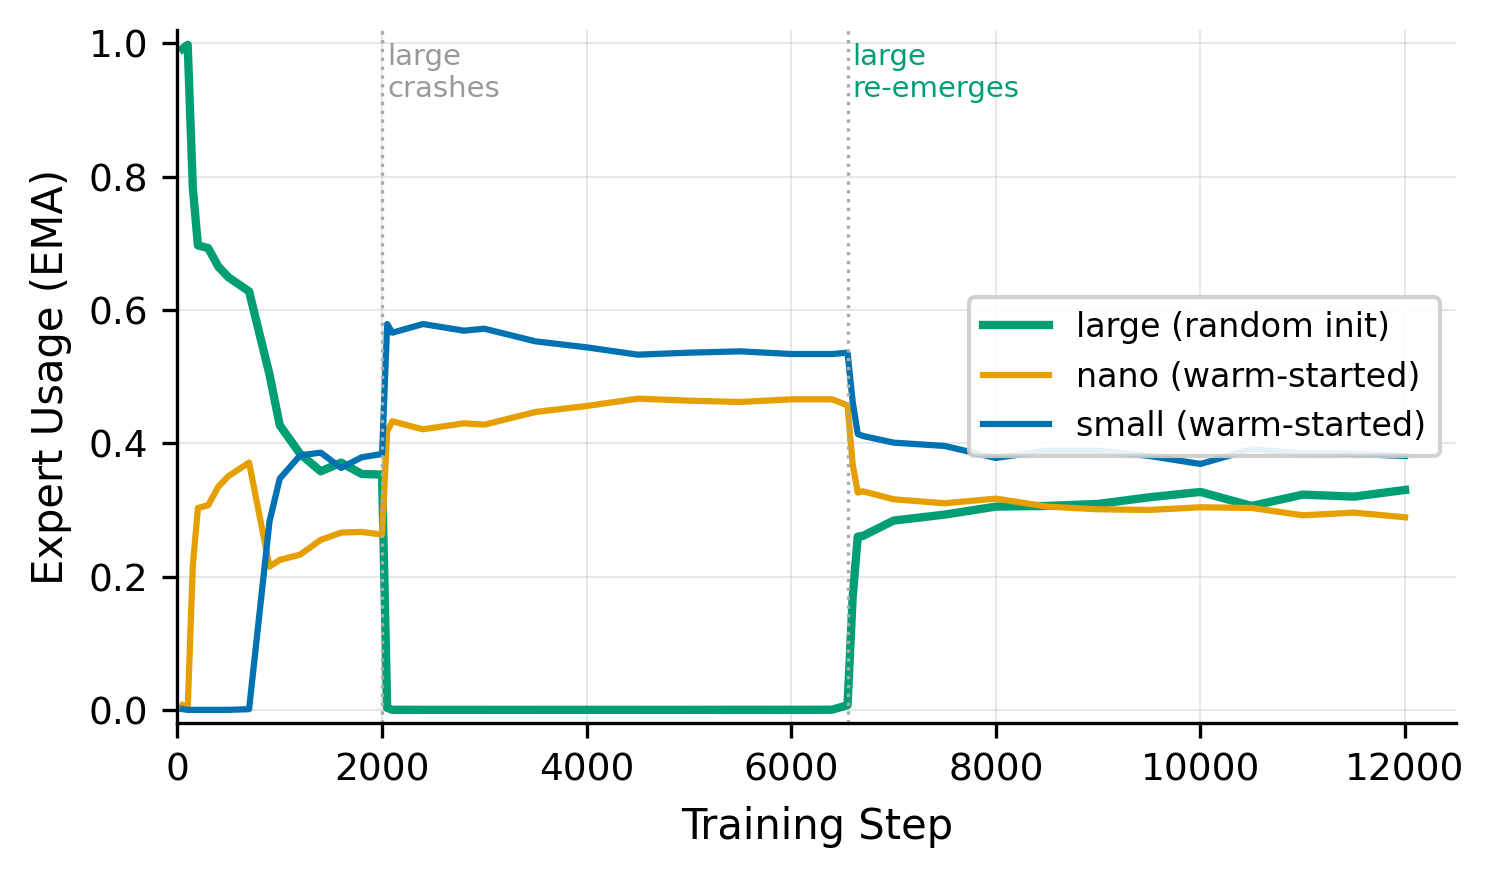
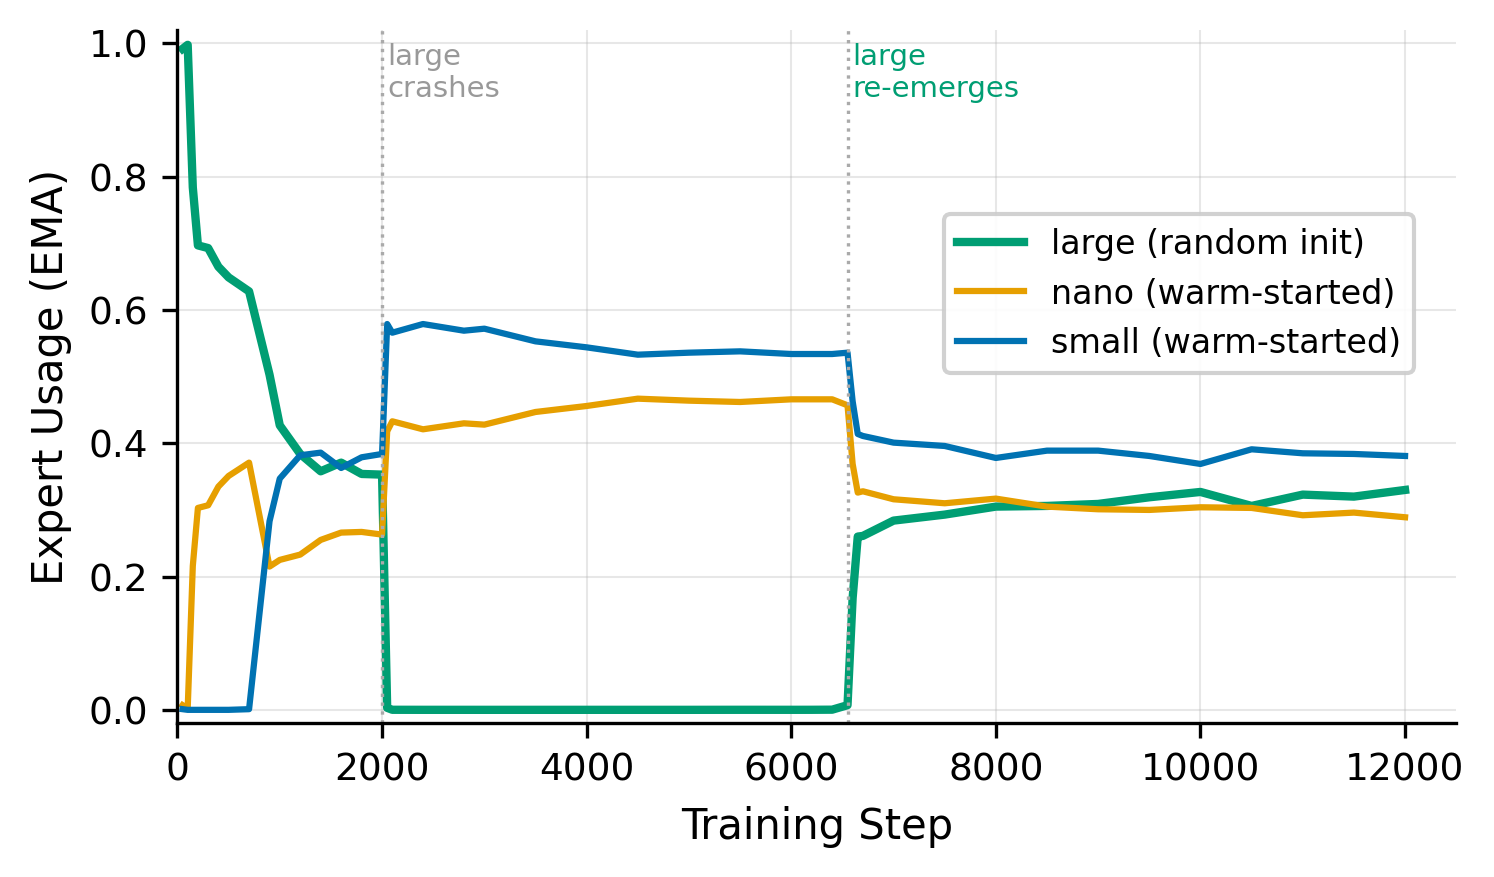
figures: regenerate checkpoint-report figures with latest exp26 data

Changed region(s): [[0.6158, 0.2155, 0.9853, 0.5234]]

diff --git a/scripts/generate_checkpoint_figures.py b/scripts/generate_checkpoint_figures.py
@@ -43,13 +43,13 @@ def pareto_plot():
 
     # Dense baselines
     dense = [
-        ("Dense nano", 320, (0.971 + 0.951) / 2),
-        ("Dense small", 842, (0.911 + 0.951) / 2),
+        ("Dense nano", 320, (0.971 + 0.961) / 2),
+        ("Dense small", 695, (0.911 + 0.951) / 2),
         ("Dense large", 1604, (0.866 + 0.936) / 2),
     ]
     for name, flops, bler in dense:
         ax.scatter(flops, bler, marker="s", s=50, color=C_GREY, zorder=5)
-        ha, dx = ("left", 30) if "large" not in name else ("right", -30)
+        ha, dx = ("left", 12) if "large" not in name else ("right", -12)
         ax.annotate(
             name,
             (flops, bler),
@@ -73,13 +73,13 @@ def pareto_plot():
         ax.scatter(flops, bler, marker=marker, s=70, color=color, zorder=10, edgecolors="white", linewidths=0.5)
         dx, dy, ha, va = 8, 5, "left", "bottom"
         if "Phase 2" in name:
-            dx, dy, ha, va = -8, -8, "right", "top"
+            dx, dy, ha, va = -8, 5, "right", "bottom"
         elif "Phase 1" in name:
-            dx, dy, ha, va = -8, -8, "right", "top"
+            dx, dy, ha, va = -8, 5, "right", "bottom"
         elif "6k" in name:
             dx, dy, ha, va = -8, 5, "right", "bottom"
         elif "12k" in name:
-            dx, dy, ha, va = 8, 5, "left", "bottom"
+            dx, dy, ha, va = 8, -5, "left", "top"
         elif "beta" in name:
             dx, dy, ha, va = 8, -8, "left", "top"
         ax.annotate(
@@ -348,7 +348,7 @@ def expert_usage_plot():
 
     ax.set_xlabel("Training Step")
     ax.set_ylabel("Expert Usage (EMA)")
-    ax.legend(loc="right", framealpha=0.9)
+    ax.legend(loc="center right", bbox_to_anchor=(0.98, 0.62), framealpha=0.9)
     ax.set_ylim(-0.02, 1.02)
     ax.set_xlim(0, 12500)
     ax.set_xticks([0, 2000, 4000, 6000, 8000, 10000, 12000])
